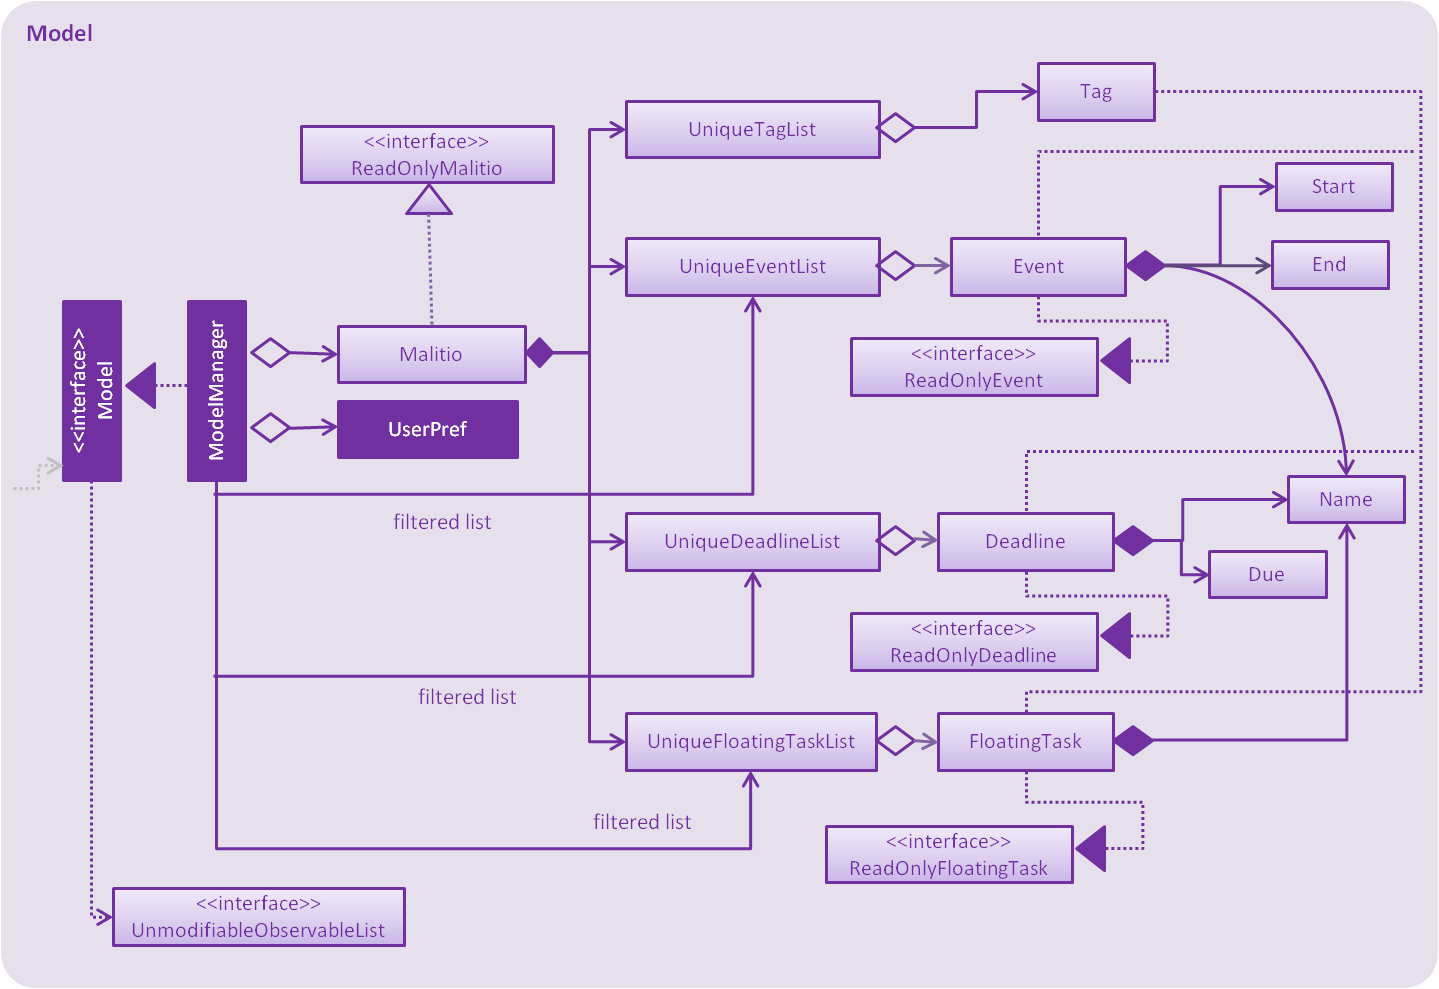
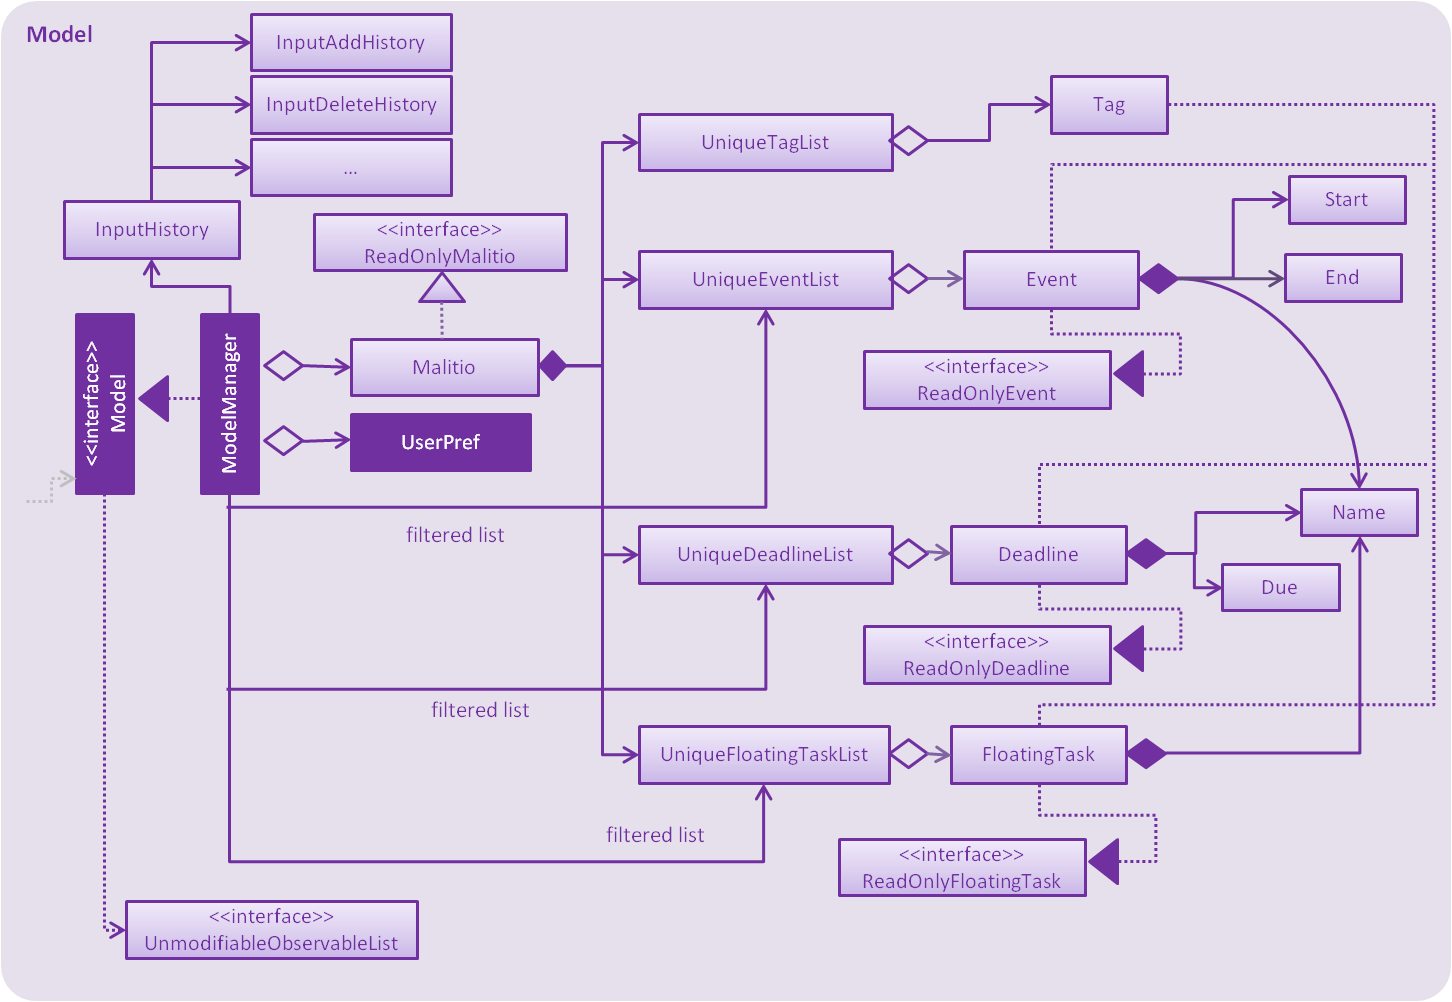
Update Developer's Guide : Model picture + description

diff --git a/docs/DeveloperGuide.md b/docs/DeveloperGuide.md
@@ -138,6 +138,7 @@ Given below is the Sequence Diagram for interactions within the `Logic` componen
  API call.<br>
 <img src="images/DeletePersonSdForLogic.png" width="800"><br>
 
+<!--- @@author A0129595N --->
 ### Model component
 
 <img src="images/ModelClassDiagram.png" width="800"><br>
@@ -147,8 +148,10 @@ Given below is the Sequence Diagram for interactions within the `Logic` componen
 The `Model`,
 * stores a `UserPref` object that represents the user's preferences.
 * stores the malitio data.
+* stores the history and future of data-changing commands in stacks of InputHistory.
 * exposes a `UnmodifiableObservableList<ReadOnlyFloatingTask>`, `UnmodifiableObservableList<ReadOnlyDeadline>`, `UnmodifiableObservableList<ReadOnlyEvent>` that can be 'observed' e.g. the UI can be bound to this list
   so that the UI automatically updates when the data in any of the list change.
+* exposes the two stacks of InputHistory (history and future) for access by UndoCommand and RedoCommand.
 * does not depend on any of the other three components.
 
 ### Storage component
